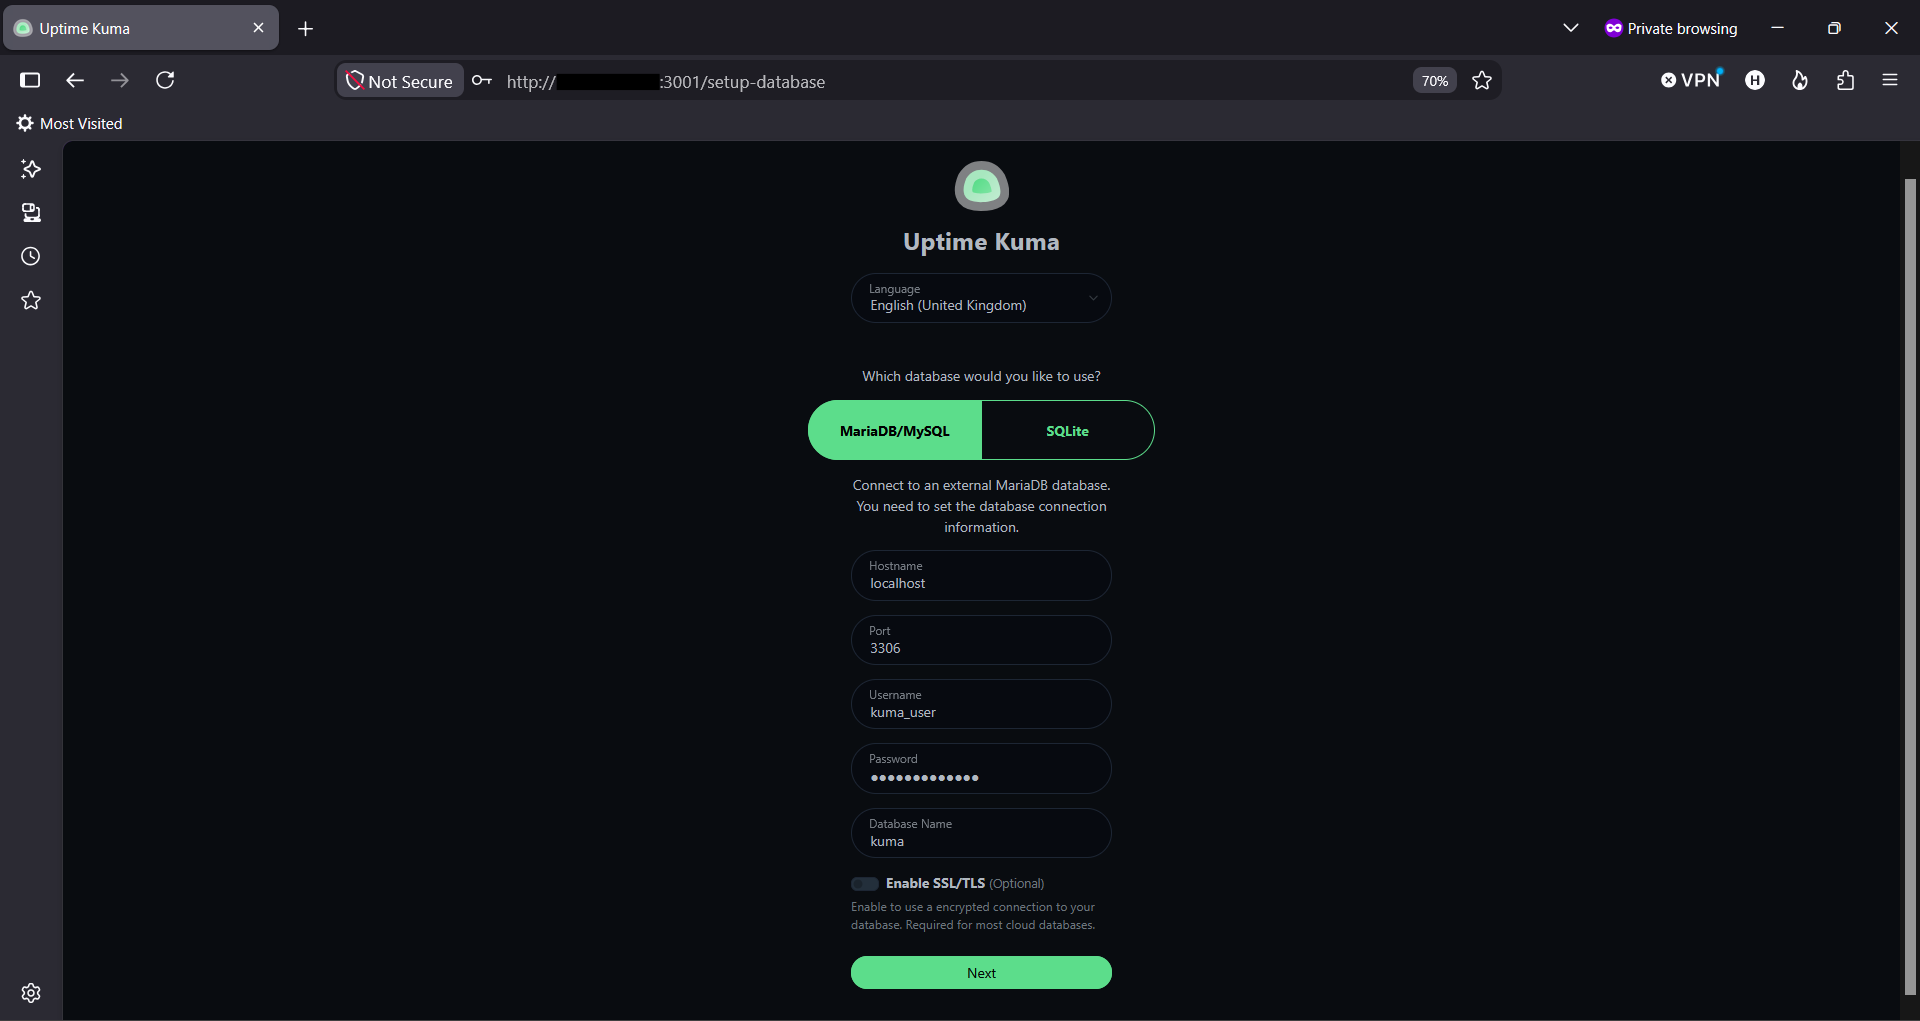
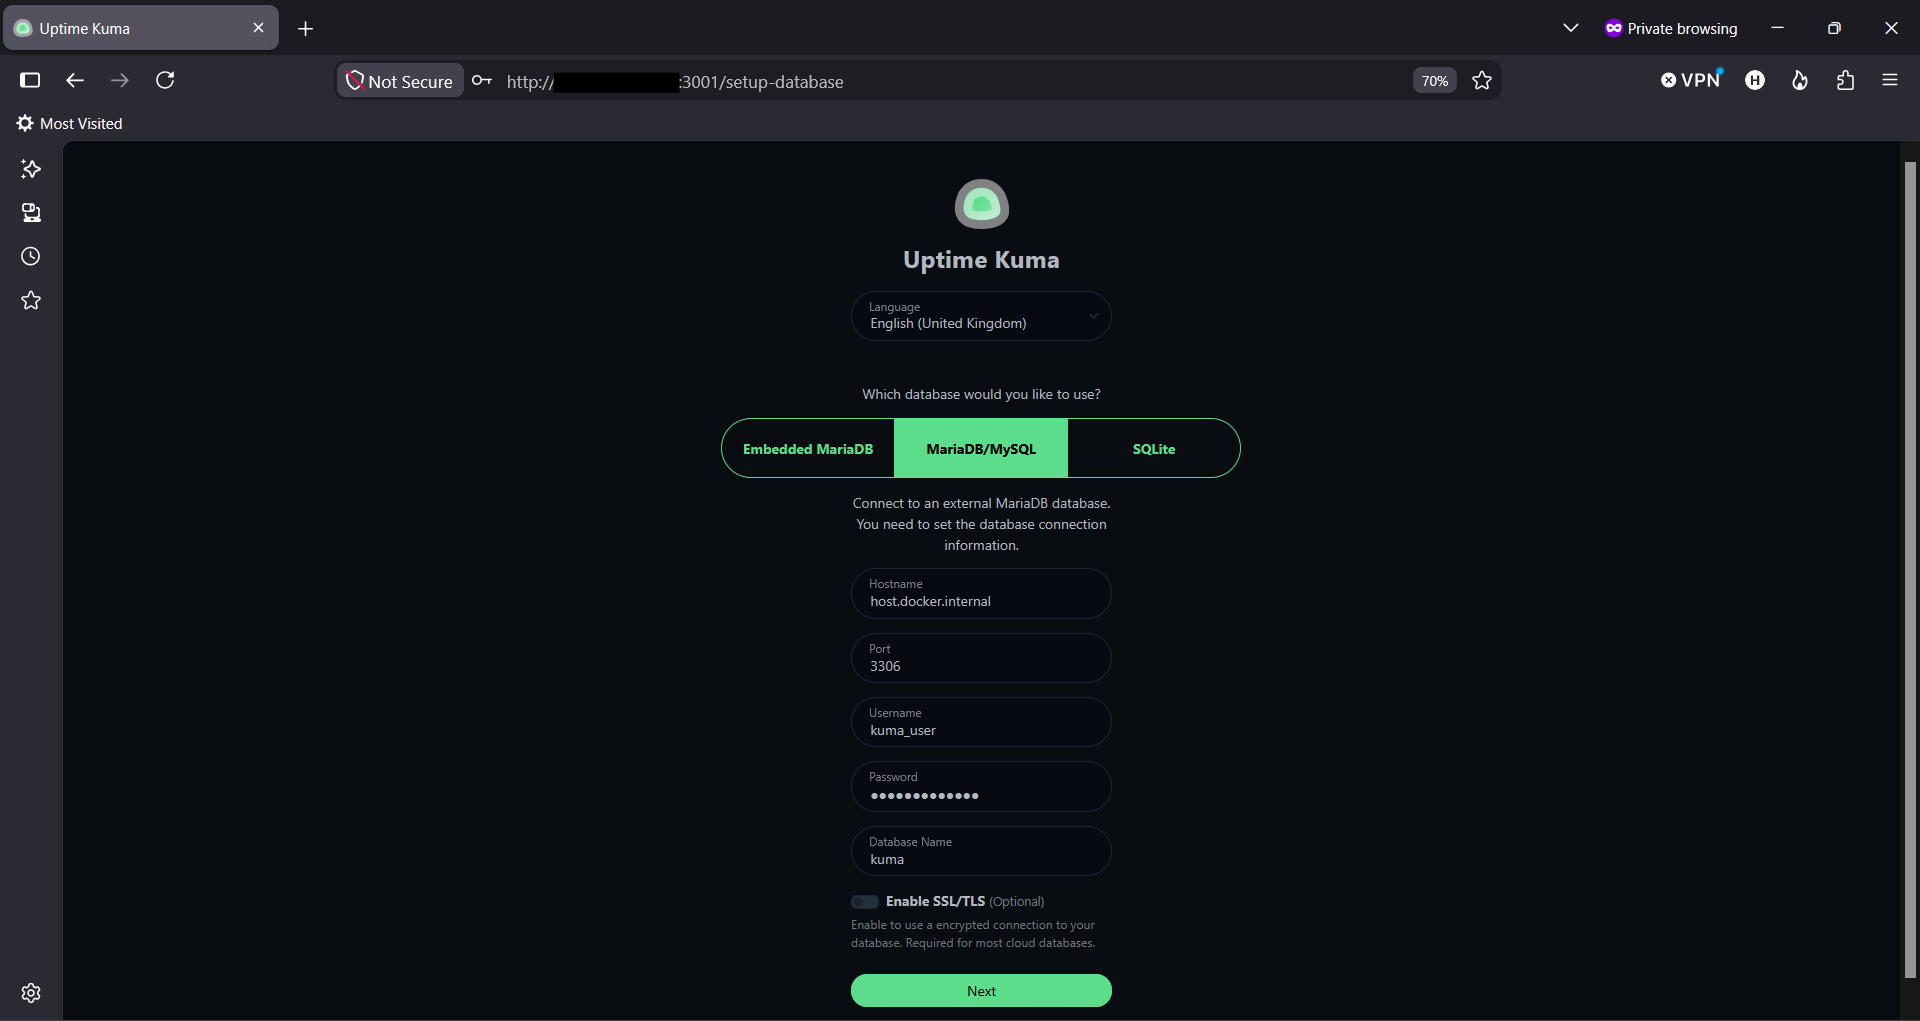
Update installation documentation for Uptime Kuma with external links and add compatibility section for Non-Docker method

diff --git a/Uptime-Kuma/Cara Instalasi Uptime Kuma di Linux dengan Docker/Cara_Instalasi_Uptime_Kuma_di_Linux_dengan_Docker.md b/Uptime-Kuma/Cara Instalasi Uptime Kuma di Linux dengan Docker/Cara_Instalasi_Uptime_Kuma_di_Linux_dengan_Docker.md
@@ -2,7 +2,7 @@
 
 Halo, Kawan Belajar! Artikel ini membahas cara instalasi **Uptime Kuma** pada server Linux menggunakan metode **Docker**, mulai dari persiapan, konfigurasi Docker Compose, pilihan database (termasuk MariaDB eksternal), hingga berhasil login dan sampai ke halaman utama dashboard.
 
-> **Catatan:** Belum tahu apa itu Uptime Kuma? Baca dulu artikel [Apa Itu Uptime Kuma? Mengenal Tool Monitoring Uptime Self-Hosted](Apa_Itu_Uptime_Kuma_Mengenal_Tool_Monitoring_Uptime_Self-Hosted.md). Apabila ingin instalasi tanpa Docker, lihat artikel [Cara Instalasi Uptime Kuma di Linux dengan NPM (Non-Docker/Native)](Cara_Instalasi_Uptime_Kuma_di_Linux_dengan_NPM.md).
+> **Catatan:** Belum tahu apa itu Uptime Kuma? Baca dulu artikel [Apa Itu Uptime Kuma? Mengenal Tool Monitoring Uptime Self-Hosted](https://kb.cloudkilat.id/uptime-kuma/apa-itu-uptime-kuma-mengenal-tool-monitoring-uptime-self-hosted). Apabila ingin instalasi tanpa Docker, lihat artikel [Cara Instalasi Uptime Kuma di Linux dengan NPM (Non-Docker/Native)](https://kb.cloudkilat.id/uptime-kuma/cara-instalasi-uptime-kuma-di-linux-dengan-npm-non-docker-native).
 
 ## Persiapan Awal
 
@@ -14,6 +14,15 @@ Sebelum memulai instalasi Uptime Kuma, pastikan kamu sudah memiliki:
 4. Spesifikasi minimum: 1 vCPU, 1 GB RAM, 10 GB storage. Sudah cukup untuk kebutuhan 20-50 monitor.
 5. Port `22/tcp` (SSH) dan `3001/tcp` (akses dashboard Uptime Kuma) dapat diakses dari internet.
 
+## Kompatibilitas Sistem Operasi
+
+Uptime Kuma dengan metode Docker dapat dijalankan pada berbagai distribusi Linux, selama Docker Engine dan Docker Compose plugin sudah terinstal. Perbedaan antar distribusi hanya terletak pada perintah instalasi Docker itu sendiri, sedangkan langkah instalasi Uptime Kuma di dalamnya tetap sama karena berjalan di dalam container yang sudah membawa environment-nya sendiri.
+
+| Distribusi                        | Package Manager | Catatan                                                              |
+| ---------------------------------- | ---------------- | ---------------------------------------------------------------------- |
+| Ubuntu / Debian                    | `apt`            | Digunakan pada panduan ini.                                            |
+| CentOS / Rocky Linux / AlmaLinux   | `dnf` / `yum`    | Nama paket dependency seperti `docker` umumnya tersedia langsung di repository, namun beberapa paket tambahan mungkin memerlukan repository EPEL. |
+
 ## Rangkuman Versi yang Digunakan
 
 Panduan ini menggunakan konfigurasi berikut:
@@ -24,15 +33,6 @@ Panduan ini menggunakan konfigurasi berikut:
 | Uptime Kuma      | Image `louislam/uptime-kuma:2` |
 
 > **Catatan:** Tag Docker `:2` **bukan** berarti versi 2.0, melainkan *major-version tag* yang selalu mengikuti rilis stabil terbaru dari seri v2 (`2.x.x`). Pada saat panduan ini ditulis, tag `:2` mengarah ke rilis **2.5.4**. Untuk pin ke versi tertentu, gunakan tag spesifik seperti `2.5.4`.
-
-## Kompatibilitas Sistem Operasi
-
-Uptime Kuma dengan metode Docker dapat dijalankan pada berbagai distribusi Linux, selama Docker Engine dan Docker Compose plugin sudah terinstal. Perbedaan antar distribusi hanya terletak pada perintah instalasi Docker itu sendiri, sedangkan langkah instalasi Uptime Kuma di dalamnya tetap sama karena berjalan di dalam container yang sudah membawa environment-nya sendiri.
-
-| Distribusi                        | Package Manager | Catatan                                                              |
-| ---------------------------------- | ---------------- | ---------------------------------------------------------------------- |
-| Ubuntu / Debian                    | `apt`            | Digunakan pada panduan ini.                                            |
-| CentOS / Rocky Linux / AlmaLinux   | `dnf` / `yum`    | Nama paket dependency seperti `docker` umumnya tersedia langsung di repository, namun beberapa paket tambahan mungkin memerlukan repository EPEL. |
 
 ---
 
@@ -158,6 +158,32 @@ docker compose logs -f
 
 Restart otomatis saat reboot server sudah tertangani oleh nilai `restart: unless-stopped` pada `compose.yaml`, sehingga tidak diperlukan konfigurasi tambahan.
 
+### Update Uptime Kuma
+
+Untuk melakukan update Uptime Kuma pada instalasi Docker Compose, masuk ke direktori yang berisi file `compose.yaml`, kemudian pull image terbaru dan recreate container:
+
+```bash
+cd /home/uptime-kuma-docker
+docker compose pull
+docker compose up -d --force-recreate
+```
+
+Perintah `docker compose pull` akan mengambil image terbaru sesuai tag yang digunakan pada `compose.yaml`, misalnya:
+
+```yaml
+image: louislam/uptime-kuma:2
+```
+
+Tag `:2` mengacu pada major version 2 dan akan menggunakan release terbaru yang tersedia pada seri Uptime Kuma 2.x ketika image diperbarui.
+
+Setelah proses update selesai, versi Uptime Kuma yang sedang berjalan dapat diperiksa dengan:
+
+```bash
+docker compose exec uptime-kuma node -p "require('/app/package.json').version"
+```
+
+> **Catatan:** Disarankan untuk melakukan backup direktori `data` sebelum melakukan update. Pada konfigurasi Docker Compose dengan `./data:/app/data`, data Uptime Kuma disimpan pada direktori `data` di host sehingga tetap tersedia ketika container dihentikan, dihapus, atau dibuat ulang.
+
 ---
 
 ## 5. Pilihan Database
@@ -221,7 +247,7 @@ Ubah nilai `bind-address` menjadi `0.0.0.0` (menerima koneksi dari semua interfa
 systemctl restart mariadb
 ```
 
-Kredensial di atas (`kuma_user`, `kuma`) akan dimasukkan pada halaman setup database di bagian selanjutnya. Sebagai Hostname pada wizard, gunakan `host.docker.internal` (apabila didukung oleh environment Docker yang digunakan) atau IP internal host pada jaringan Docker bridge, **bukan** `localhost`, karena `localhost` di dalam container merujuk ke container itu sendiri, bukan ke host.
+Kredensial di atas (`kuma_user`, `kuma`) akan dimasukkan pada halaman setup database di bagian selanjutnya. Sebagai Hostname pada wizard, gunakan `host.docker.internal` (apabila didukung oleh environment Docker yang digunakan) atau IP internal host pada jaringan Docker bridge (gunakan perintah `ip addr show docker0 | grep "inet " | awk '{print $2}' | cut -d/ -f1` untuk mengetahui IP-nya), **bukan** `localhost`, karena `localhost` di dalam container merujuk ke container itu sendiri, bukan ke host.
 
 > **Catatan:** Apabila MariaDB berada pada server terpisah dari VPS Uptime Kuma, gunakan IP Address atau hostname server MariaDB tersebut sebagai Hostname, dan pastikan port `3306` dapat diakses dari VPS Uptime Kuma melalui firewall.
 
@@ -256,7 +282,7 @@ Pilih tipe database sesuai yang tersedia pada wizard (lihat kembali bagian [Pili
 </p>
 
 <p align="center">
-<img alt="Pemilihan Database MariaDB/MySQL Eksternal" src="Images/7_mariadb_eksternal.png" />
+<img alt="Pemilihan Database MariaDB/MySQL Eksternal" src="Images/7_mariadb.png" />
   <br>
   <em>Gambar 7: Pemilihan Database MariaDB/MySQL Eksternal</em>
 </p>

diff --git a/Uptime-Kuma/Cara Instalasi Uptime Kuma di Linux dengan NPM/Cara_Instalasi_Uptime_Kuma_di_Linux_dengan_NPM.md b/Uptime-Kuma/Cara Instalasi Uptime Kuma di Linux dengan NPM/Cara_Instalasi_Uptime_Kuma_di_Linux_dengan_NPM.md
@@ -2,7 +2,7 @@
 
 Halo, Kawan Belajar! Artikel ini membahas cara instalasi **Uptime Kuma** pada server Linux menggunakan metode **Non-Docker (Native)** dengan Node.js dan PM2, mulai dari persiapan, konfigurasi PM2, pilihan database (termasuk MariaDB eksternal), hingga berhasil login dan sampai ke halaman utama dashboard.
 
-> **Catatan:** Belum tahu apa itu Uptime Kuma? Baca dulu artikel [Apa Itu Uptime Kuma? Mengenal Tool Monitoring Uptime Self-Hosted](Apa_Itu_Uptime_Kuma_Mengenal_Tool_Monitoring_Uptime_Self-Hosted.md). Apabila ingin instalasi menggunakan Docker, lihat artikel [Cara Instalasi Uptime Kuma di Linux dengan Docker](Cara_Instalasi_Uptime_Kuma_di_Linux_dengan_Docker.md).
+> **Catatan:** Belum tahu apa itu Uptime Kuma? Baca dulu artikel [Apa Itu Uptime Kuma? Mengenal Tool Monitoring Uptime Self-Hosted](https://kb.cloudkilat.id/uptime-kuma/apa-itu-uptime-kuma-mengenal-tool-monitoring-uptime-self-hosted). Apabila ingin instalasi menggunakan Docker, lihat artikel [Cara Instalasi Uptime Kuma di Linux dengan Docker](https://kb.cloudkilat.id/uptime-kuma/cara-instalasi-uptime-kuma-di-linux-dengan-docker).
 
 ## Persiapan Awal
 
@@ -13,6 +13,15 @@ Sebelum memulai instalasi Uptime Kuma, pastikan kamu sudah memiliki:
 3. **IP Address publik** pada VPS.
 4. Spesifikasi minimum: 1 vCPU, 1 GB RAM, 10 GB storage. Sudah cukup untuk kebutuhan 20-50 monitor.
 5. Port `22/tcp` (SSH) dan `3001/tcp` (akses dashboard Uptime Kuma) dapat diakses dari internet.
+
+## Kompatibilitas Sistem Operasi
+
+Uptime Kuma dengan metode Non-Docker dapat dijalankan pada berbagai distribusi Linux. Perbedaan utama antar distribusi hanya terletak pada perintah instalasi paket dependency (Node.js, Git), sedangkan langkah instalasi Uptime Kuma itu sendiri tetap sama.
+
+| Distribusi                        | Package Manager | Catatan                                                              |
+| ---------------------------------- | ---------------- | ---------------------------------------------------------------------- |
+| Ubuntu / Debian                    | `apt`            | Digunakan pada panduan ini.                                            |
+| CentOS / Rocky Linux / AlmaLinux   | `dnf` / `yum`    | Nama paket dependency seperti `nodejs` dan `git` umumnya tersedia langsung di repository, namun beberapa paket tambahan mungkin memerlukan repository EPEL. |
 
 ## Rangkuman Versi yang Digunakan
 
@@ -25,15 +34,6 @@ Panduan ini menggunakan konfigurasi berikut:
 | Node.js          | 20.x LTS                        |
 
 > **Catatan:** Requirement resmi Node.js untuk metode Non-Docker adalah versi 20.4 ke atas.
-
-## Kompatibilitas Sistem Operasi
-
-Uptime Kuma dengan metode Non-Docker dapat dijalankan pada berbagai distribusi Linux. Perbedaan utama antar distribusi hanya terletak pada perintah instalasi paket dependency (Node.js, Git), sedangkan langkah instalasi Uptime Kuma itu sendiri tetap sama.
-
-| Distribusi                        | Package Manager | Catatan                                                              |
-| ---------------------------------- | ---------------- | ---------------------------------------------------------------------- |
-| Ubuntu / Debian                    | `apt`            | Digunakan pada panduan ini.                                            |
-| CentOS / Rocky Linux / AlmaLinux   | `dnf` / `yum`    | Nama paket dependency seperti `nodejs` dan `git` umumnya tersedia langsung di repository, namun beberapa paket tambahan mungkin memerlukan repository EPEL. |
 
 ---
 
@@ -178,6 +178,29 @@ pm2 logs uptime-kuma
 # Melihat console output secara langsung
 pm2 monit
 ```
+
+### 5.3 Update Uptime Kuma
+
+Untuk melakukan update Uptime Kuma pada instalasi Non-Docker, masuk ke direktori instalasi kemudian ambil release terbaru menggunakan Git:
+
+```
+cd /home/uptime-kuma
+git fetch --all --tags
+git checkout <VERSI_TERBARU> --force
+npm install --omit dev --no-audit
+npm run download-dist
+pm2 restart uptime-kuma
+```
+
+Ganti `<VERSI_TERBARU>` dengan nomor release yang ingin digunakan, misalnya `2.5.4`. Nomor versi dapat dilihat pada [halaman Releases resmi Uptime Kuma](https://github.com/louislam/uptime-kuma/releases).
+
+Setelah proses update selesai, versi Uptime Kuma dapat diperiksa dengan:
+
+```bash
+git describe --tags --exact-match HEAD
+```
+
+> **Catatan:** Disarankan untuk melakukan backup data Uptime Kuma sebelum melakukan update, terutama jika instance sudah memiliki banyak konfigurasi monitor, notifikasi, dan Status Page.
 
 ---
 
